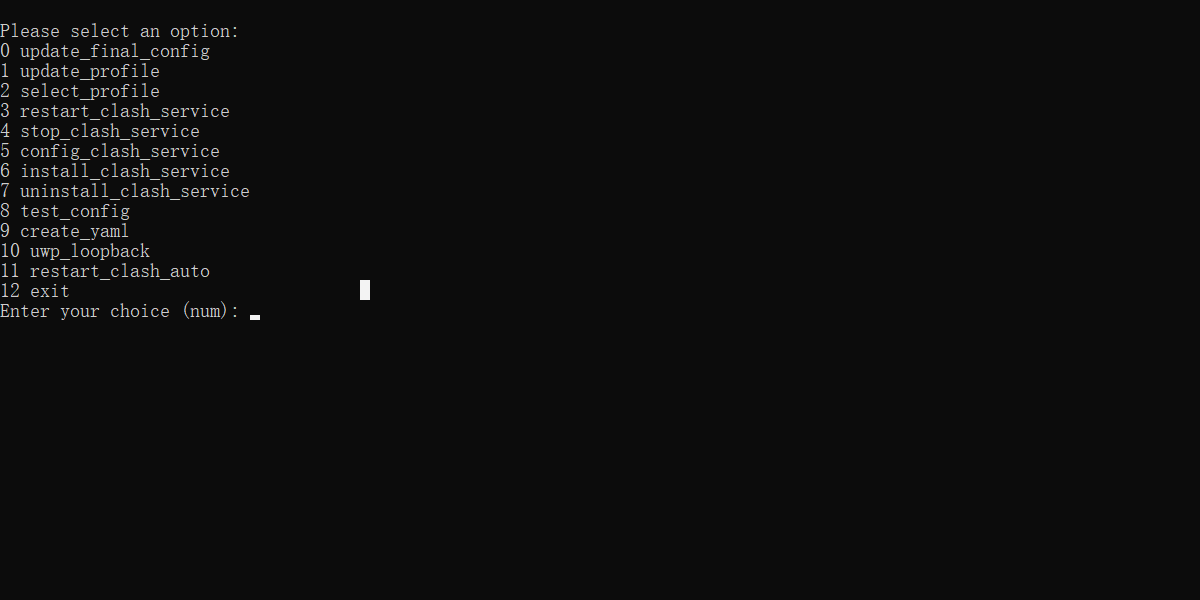
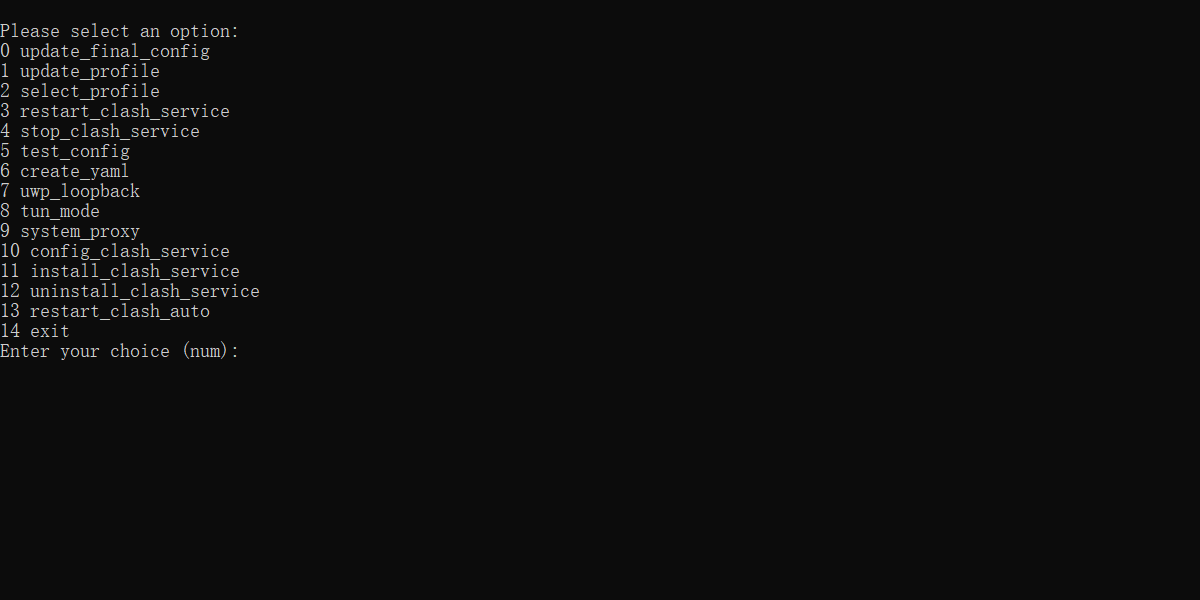
Add tun_mode and system_proxy

Changed region(s): [[0.0, 0.24, 0.2158, 0.6], [0.2775, 0.45, 0.3083, 0.51]]

diff --git a/clashauto-win.py b/clashauto-win.py
@@ -1,7 +1,7 @@
 #!/usr/bin/env python3
 # _*_ coding: UTF-8 _*_
 
-import os, sys, shutil, configparser
+import os, sys, subprocess, shutil, configparser
 from enum import Enum
 import ruamel.yaml
 import requests
@@ -9,14 +9,18 @@ from clashautoutil import ClashUtil
 
 # ## Global Vars
 SCRIPT_PATH = os.path.abspath(os.path.dirname(os.path.realpath(__file__)))
-CLASH_CORE = os.path.join(SCRIPT_PATH, "clash.exe")
-CFG_DIR = os.path.join(SCRIPT_PATH, "config")
-PROFILE_DIR = os.path.join(SCRIPT_PATH, "profiles")
+DATA_DIR = os.path.join(SCRIPT_PATH, "data")
+CLASH_CFG_DIR = os.path.join(SCRIPT_PATH, "clash_config")
+PROFILE_DIR = os.path.join(DATA_DIR, "profiles")
+TPL_DIR = os.path.join(DATA_DIR, "tpl")
 
-BASIC_CLASH_CONFIG_PATH = os.path.join(SCRIPT_PATH, "basic_clash_config.yaml")
+BASIC_CLASH_CONFIG_PATH = os.path.join(DATA_DIR, "basic_clash_config.yaml")
 FINAL_CLASH_CONFIG_PATH = os.path.join(SCRIPT_PATH, "final_clash_config.yaml")
-TIMEOUT = 5
+CLASHAUTO_CONFIG_PATH = os.path.join(DATA_DIR, "config.ini")
+PROXY_PROVIDERS_URL_PATH = os.path.join(TPL_DIR, "proxy_provider_urls")
+CLASH_CORE = os.path.join(SCRIPT_PATH, "clash.exe")
 
+TIMEOUT = 5
 PATH_OF_UPDATE_CFG_RES = os.path.join(SCRIPT_PATH, "update_clashcfg_res.py")
 
 def select(options):
@@ -49,6 +53,7 @@ class ServerCmd(Enum):
 def clash_server_ctl(server_cmd):
     os.chdir(SCRIPT_PATH)
 
+    cmd = ""
     if server_cmd == ServerCmd.RESTART:
         cmd = f"nssm.exe restart clash"
     elif server_cmd == ServerCmd.STOP:
@@ -56,20 +61,37 @@ def clash_server_ctl(server_cmd):
     elif server_cmd == ServerCmd.CONFIG:
         cmd = f"nssm.exe edit clash"
     elif server_cmd == ServerCmd.INSTALL:
-        cmd = f'nssm.exe install clash "{CLASH_CORE}" -d "{CFG_DIR}" -f "{FINAL_CLASH_CONFIG_PATH}"'
+        cmd = f'nssm.exe install clash "{CLASH_CORE}" -d "{CLASH_CFG_DIR}" -f "{FINAL_CLASH_CONFIG_PATH}"'
     elif server_cmd == ServerCmd.UNINSTALL:
         cmd = f"nssm.exe remove clash confirm"
     elif server_cmd == ServerCmd.TEST:
-        cmd = f'{CLASH_CORE} -d "{CFG_DIR}" -f "{FINAL_CLASH_CONFIG_PATH}" -t'
+        cmd = f'{CLASH_CORE} -d "{CLASH_CFG_DIR}" -f "{FINAL_CLASH_CONFIG_PATH}" -t'
         print(cmd)
 
     os.system(cmd)
+
+def win_system_proxy_ctl(enable, proxy=None):
+    try:
+        if enable:
+            # Use reg command to enable the proxy with ProxyEnable = 1
+            subprocess.run(["reg", "add", R"HKCU\Software\Microsoft\Windows\CurrentVersion\Internet Settings", "/v", "ProxyEnable", "/t", "REG_DWORD", "/d", "1", "/f"])
+            subprocess.run(["reg", "add", R"HKCU\Software\Microsoft\Windows\CurrentVersion\Internet Settings", "/v", "ProxyServer", "/t", "REG_SZ", "/d", proxy, "/f"])
+
+            print("System proxy has been enabled.")
+        else:
+            # Use reg command to disable the proxy with ProxyEnable = 0
+            subprocess.run(["reg", "add", R"HKCU\Software\Microsoft\Windows\CurrentVersion\Internet Settings", "/v", "ProxyEnable", "/t", "REG_DWORD", "/d", "0", "/f"])
+            #subprocess.run(["reg", "delete", R"HKCU\Software\Microsoft\Windows\CurrentVersion\Internet Settings", "/v", "ProxyServer", "/f"])
+
+            print("System proxy has been disabled.")
+    except Exception as e:
+        print("Error occurred while configuring the system proxy:", str(e))
 
 def main():
     os.chdir(SCRIPT_PATH)
     
     config = configparser.ConfigParser()
-    config.read("config.ini")
+    config.read(CLASHAUTO_CONFIG_PATH)
     sc_host = config.get("main", "sc_host")
 
     with open(BASIC_CLASH_CONFIG_PATH, "r", encoding="utf-8") as f:
@@ -85,11 +107,12 @@ def main():
         }
     session.timeout = TIMEOUT
 
-    clash_util = ClashUtil(session, CFG_DIR, PROFILE_DIR, sc_host);
+    clash_util = ClashUtil(session, CLASH_CFG_DIR, PROFILE_DIR, sc_host);
 
     options = ["update_final_config", "update_profile", "select_profile", \
                "restart_clash_service", "stop_clash_service", \
-               "test_config", "create_yaml", "uwp_loopback", \
+               "test_config", "create_yaml", \
+               "tun_mode", "system_proxy", "uwp_loopback", \
                "config_clash_service", "install_clash_service", "uninstall_clash_service", \
                "restart_clash_auto", "exit"]
     while True:
@@ -100,8 +123,7 @@ def main():
             continue
         choiced_option = options[choice]
         if choiced_option == "update_final_config":
-            profile_path = os.path.join(SCRIPT_PATH, "final_clash_config.yaml")
-            updated_res, no_update_res = clash_util.update_dep_net_res(profile_path)
+            updated_res, no_update_res = clash_util.update_dep_net_res(FINAL_CLASH_CONFIG_PATH)
             print("updated_res:")
             [print(f'-   {s}, {i}') for s, r in updated_res.items() for i in r]
             print("no_update_res:")
@@ -162,6 +184,12 @@ def main():
                 ruamel.yaml.round_trip_dump(merged_yaml_data, f)
             print(f'Merged "{BASIC_CLASH_CONFIG_PATH}" and "{profile_path}" into "{FINAL_CLASH_CONFIG_PATH}"')
 
+            tun_mode = config.getboolean("main", "tun_mode", fallback=None)
+            print(tun_mode)
+            if tun_mode:
+                ClashUtil.tun_ctl(enable=True, config_path=FINAL_CLASH_CONFIG_PATH)
+            else:
+                ClashUtil.tun_ctl(enable=False, config_path=FINAL_CLASH_CONFIG_PATH)
             clash_server_ctl(ServerCmd.RESTART)
 
         elif choiced_option == "restart_clash_service":
@@ -174,32 +202,64 @@ def main():
         elif choiced_option == "test_config":
             clash_server_ctl(ServerCmd.TEST)
         elif choiced_option == "create_yaml":
-            file_names = get_file_names(os.path.join(SCRIPT_PATH, "tpl"))
+            file_names = get_file_names(os.path.join(DATA_DIR, "tpl"))
             file_names = [i for i in file_names if os.path.splitext(i)[1] == ".yaml"]
             index = select(file_names)
             if index >= len(file_names):
                 print("backward")
                 continue
-            tpl_config_path = f"tpl/{file_names[index]}"
-            tpl_out_config_path = f"tpl/out/{file_names[index]}"
-            url_path = "tpl/proxy_provider_urls"
+            tpl_config_path = os.path.join(TPL_DIR, file_names[index])
+            tpl_out_config_path = os.path.join(PROFILE_DIR, file_names[index])
+            url_path = PROXY_PROVIDERS_URL_PATH
             urls = ClashUtil.extra_urls(url_path)
             proxy_urls, failed_urls = clash_util.create_yaml_base_on_tpl(urls, tpl_config_path, tpl_out_config_path)
             print("used providers:")
             [print(f"-   {i}") for i in proxy_urls]
             print("failed providers:")
             [print(f"-   {i}") for i in failed_urls]
-            shutil.copy(tpl_out_config_path, "profiles/")
-            print(f'copied "{tpl_out_config_path}" to profile dir')
+            print(f'created "{tpl_out_config_path}"')
+        elif choiced_option == "tun_mode":
+            opts = ["enable", "disable"]
+            idx = select(opts)
+            if idx >= len(opts):
+                print("backward")
+                continue
+
+            if opts[idx] == "enable":
+                enable = True
+            else:
+                enable = False
+
+            config.set("main", "tun_mode", "True" if enable else "False")
+            with open(CLASHAUTO_CONFIG_PATH, "w", encoding="utf-8", newline="") as f:
+                config.write(f)
+
+            ClashUtil.tun_ctl(enable, FINAL_CLASH_CONFIG_PATH)
+            print(f'Switched tun mode: {enable}')
+
+            clash_server_ctl(ServerCmd.RESTART)
+        elif choiced_option == "system_proxy":
+            opts = ["enable", "disable"]
+            idx = select(opts)
+            if idx >= len(opts):
+                print("backward")
+                continue
+
+            if opts[idx] == "enable":
+                enable = True
+            else:
+                enable = False
+            win_system_proxy_ctl(enable=enable, proxy=proxy)
+        elif choiced_option == "uwp_loopback":
+            cmd = f'EnableLoopback.exe'
+            os.system(cmd)
         elif choiced_option == "install_clash_service":
             clash_server_ctl(ServerCmd.INSTALL)
             clash_server_ctl(ServerCmd.RESTART)
         elif choiced_option == "uninstall_clash_service":
             clash_server_ctl(ServerCmd.STOP)
             clash_server_ctl(ServerCmd.UNINSTALL)
-        elif choiced_option == "uwp_loopback":
-            cmd = f'EnableLoopback.exe'
-            os.system(cmd)
+            win_system_proxy_ctl(enable=False)
         elif choiced_option == "restart_clash_auto":
             #exec = sys.executable
             #os.execl(exec, exec, * sys.argv)

diff --git a/clashautoutil.py b/clashautoutil.py
@@ -252,3 +252,28 @@ class ClashUtil():
                     group[replaced_key] = new_value_data
             replace_special_key("use", provider_names)
             replace_special_key("proxies", new_group_names)
+
+    @staticmethod
+    def tun_ctl(enable, config_path):
+        with open(config_path, "r", encoding="utf-8") as f:
+            yaml_data = ruamel.yaml.safe_load(f)
+
+        try:
+            yaml_data.get("tun").get("enable")
+            does_have_tun = True
+        except Exception as e:
+            does_have_tun = False
+        try:
+            yaml_data.get("dns").get("enable")
+            does_have_dns = True
+        except Exception as e:
+            does_have_dns = False
+    
+        if does_have_tun:
+            yaml_data["tun"]["enable"] = enable
+        if does_have_dns:
+            yaml_data["dns"]["enable"] = enable
+
+        with open(config_path, "w", encoding="utf-8", newline="") as f:
+            yaml = ruamel.yaml.YAML()
+            yaml.dump(yaml_data, f)

diff --git a/README_CN.md b/README_CN.md
@@ -27,16 +27,17 @@
 
 ### 软件的文件的作用
 
--   clashauto.bat: 用于管理 clash 服务。
--   config.ini: Clash Auto 的配置。
--   config: 是 clash 的配置目录。
--   profiles: 用于放置 profile 文件。
--   basic_clash_config.yaml: 用于配置 clash 的基础配置。修改该文件后, 记得重启 clashauto.bat
+-   clashauto.bat: 启动 Windows 平台的 ClashAuto
+-   clashauto: 启动 Linux 平台的 ClashAuto
+-   data: 放置用户的数据。
+    -   config.ini: ClashAuto 的配置。
+    -   profiles: 用于放置 profile 文件。
+    -   basic_clash_config.yaml: 用于配置 clash 的基础配置。修改该文件后, 记得重启 clashauto.bat
+    -   tpl: 用于根据 Clash 模板配置文件生成新的配置文件。
+        -   proxy_provider_urls: 放置有 proxies 字段的 Clash 配置。
+        -   .yaml 文件: Clash 模板配置文件
 -   final_clash_config.yaml: 通过 basic_clash_config 和 profile 文件合并后配置文件, clash 是用这个配置文件启动的。
--   tpl: 用于根据 Clash 模板配置文件生成新的配置文件。
-    -   proxy_provider_urls: 放置有 proxies 字段的 Clash 配置。
-    -   .yaml 文件: Clash 模板配置文件
-    -   out 目录: 放置生成的配置文件
+-   clash_config: 是 clash 的配置目录。
 
 ### clashauto.bat 的选项
 
@@ -75,6 +76,7 @@
 -   restart/stop/config/install/uninstall clash_service: 都是用于操作 clash 服务。
 -   test_config: 测试 `final_clash_config.yaml` 配置文件。
 -   create_yaml: 用于根据 Clash 模板配置文件生成新的配置文件。
+-   tun_mode: 启用/关闭 tun 模式
 -   uwp_loopback: 允许应用程序在本地回环地址（loopback address）上进行网络通信。为了增强应用程序的安全性，Microsoft 在默认情况下禁用了微软商店的应用在本地回环地址上进行网络通信的功能。
 
 *Clash Auto 会使用自身作为代理来更新 clash 配置文件的依赖和更新 clash 的配置文件。*
@@ -86,6 +88,7 @@
 ### Clash Auto 的配置
 
 sc_host: 表示订阅转换的后端地址。在转换 url 时, 如果发现 url 的内容不是 Clash 配置, 则使用订阅转换来转换该 url。
+tun_mode: 表示启动/关闭 tun 模式。
 
 ### 根据模板配置生成新的配置
 
@@ -267,64 +270,9 @@ proxy-providers:
 
 会将合并后的文件复制到 profiles 目录, 然后更新并选择这个 profile 即可。
 
-### 启用/关闭 Tun 模式
+## 更新 ClashAuto
 
-配置 `basic_clash_config.yaml` 的 dns 和 tun 字段, 重启 Clash Auto 再 select_profile 即可。可查找相关文档进行配置。
-
-<details>
-<summary> 启用 Tun 模式: </summary>
-
-```yaml
-dns:
-  enable: true
-  listen: 0.0.0.0:53
-  ipv6: false
-  #default-nameserver:
-  #  - 114.114.114.114
-  #  #- 8.8.8.8
-  enhanced-mode: fake-ip
-  nameserver:
-    - 223.5.5.5
-    - 114.114.114.114
-    #- 8.8.8.8
-    #- tls://dns.rubyfish.cn:853 # DNS over TLS
-    #- https://1.1.1.1/dns-query # DNS over HTTPS
-  fallback:
-    - https://8888.google/dns-query
-    - https://1.0.0.1/dns-query
-  fallback-filter:
-    geoip: true
-    ipcidr:
-      #- 240.0.0.0/4
-    #domain:
-    #  - '+.google.com'
-    #  - '+.facebook.com'
-    #  - '+.youtube.com'
-    #  - "+.github.com"
-    #  - "+.githubusercontent.com"
-    #  - "+.googlevideo.com"
-
-tun:
-  enable: true
-  stack: system # or gvisor
-  dns-hijack:
-    - any:53
-    - tcp://any:53
-  auto-route: true
-  auto-detect-interface: true # conflict with interface-name
-
-```
-
-</details>
-
-关闭 Tun: 修改这些字段即可。
-
-```yaml
-dns:
-  enable: disable
-tun:
-  enable: disable
-```
+从 Release 下载软件, 解压软件压缩包, 然后将之前的 data 的文件 (选择自己需要的) 复制到安装目录下即可。
 
 ## Q&A
 
